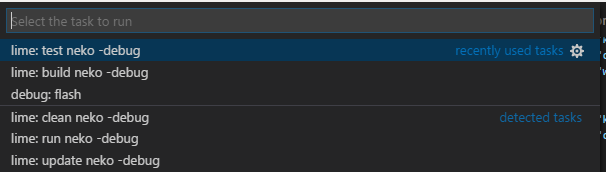
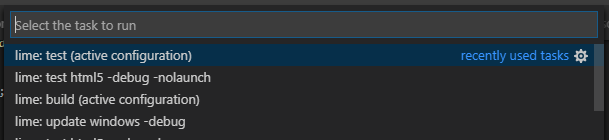
Update docs for Lime extension 1.3.0

diff --git a/README.md b/README.md
@@ -11,7 +11,7 @@ No more! Terminator allows you to run tasks without any mercy for any potentiall
 {
 	"key": "ctrl+shift+b",
 	"command": "terminator.run",
-	"args": ["test*"]
+	"args": ["^test \\(active configuration\\)"]
 }
 ```
 
